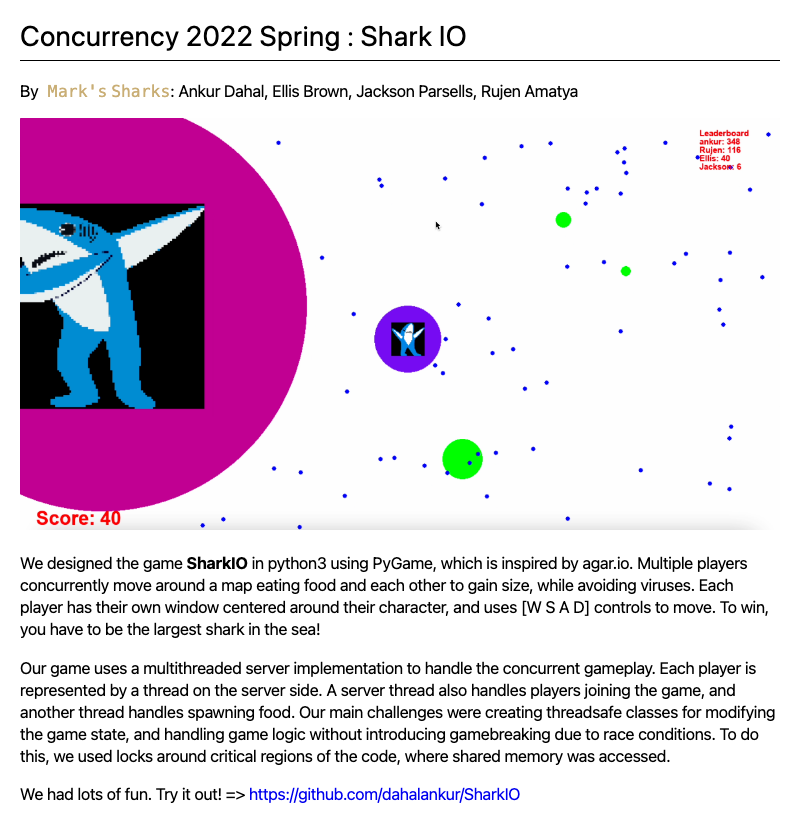
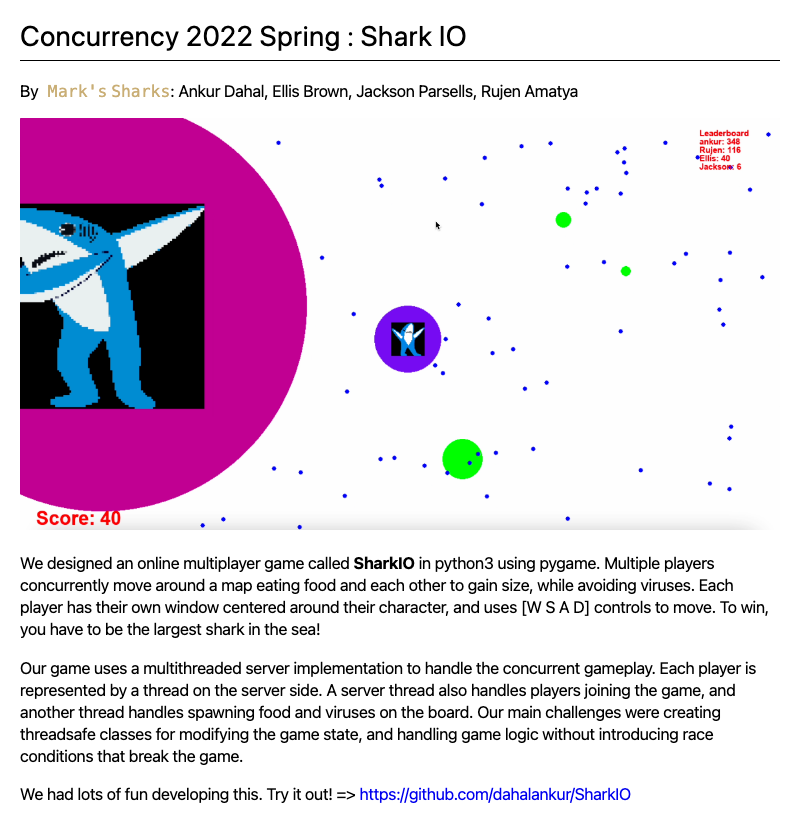
Change poster

Changed region(s): [[0.0312, 0.8526, 0.9688, 0.9744], [0.125, 0.6699, 0.9375, 0.7004]]

diff --git a/proposal/sharkIO.md b/proposal/sharkIO.md
@@ -2,8 +2,8 @@
 ###  By` Mark's` `Sharks`: Ankur Dahal, Ellis Brown, Jackson Parsells, Rujen Amatya 
 ![Demo gameplay](try2.png)
 
-### We designed the game __SharkIO__ in python3 using PyGame, which is inspired by agar.io. Multiple players concurrently move around a map eating food and each other to gain size, while avoiding viruses. Each player has their own window centered around their character, and uses [W S A D] controls to move. To win, you have to be the largest shark in the sea!
+### We designed an online multiplayer game called __SharkIO__ in python3 using pygame. Multiple players concurrently move around a map eating food and each other to gain size, while avoiding viruses. Each player has their own window centered around their character, and uses [W S A D] controls to move. To win, you have to be the largest shark in the sea!
 
-### Our game uses a multithreaded server implementation to handle the concurrent gameplay. Each player is represented by a thread on the server side. A server thread also handles players joining the game, and another thread handles spawning food. Our main challenges were creating threadsafe classes for modifying the game state, and handling game logic without introducing gamebreaking due to race conditions. To do this, we used locks around critical regions of the code, where shared memory was accessed. 
+### Our game uses a multithreaded server implementation to handle the concurrent gameplay. Each player is represented by a thread on the server side. A server thread also handles players joining the game, and another thread handles spawning food and viruses on the board. Our main challenges were creating threadsafe classes for modifying the game state, and handling game logic without introducing race conditions that break the game.
 
-### We had lots of fun. Try it out! => [https://github.com/dahalankur/SharkIO](https://github.com/dahalankur/SharkIO)
+### We had lots of fun developing this. Try it out! => [https://github.com/dahalankur/SharkIO](https://github.com/dahalankur/SharkIO)
